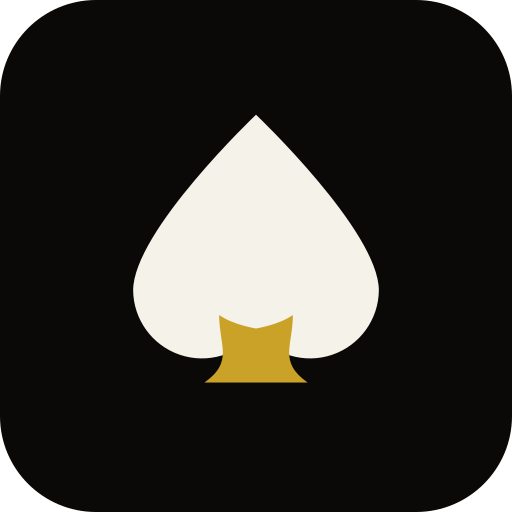
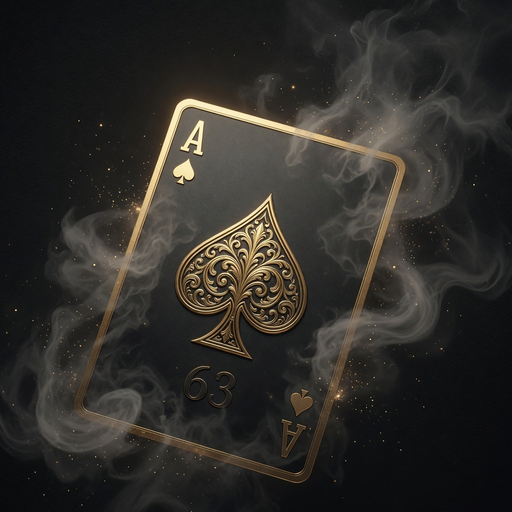
Integrate the real Royal63 brand image
Replace the generated placeholder icons/OG image with crops of the
club's actual logo (gold ace of spades card): app icons (192/512,
apple-touch-icon), a static 1200x630 OG/Twitter share image, and a
featured image on the About page next to the intro copy. Source image
kept at public/brand/royal63-source.jpg for future re-cropping.

Navbar/favicon keep the small vector mark — the photographic card
doesn't read at that size.

Claude-Session: https://claude.ai/code/session_01D4ah8yGr3pBJFTj4aNJb7c

diff --git a/app/(site)/about/page.tsx b/app/(site)/about/page.tsx
@@ -1,4 +1,5 @@
 import type { Metadata } from "next";
+import Image from "next/image";
 import { Reveal, RevealGroup, RevealItem } from "@/components/reveal";
 import { Badge } from "@/components/ui/badge";
 import { SITE_CONTENT } from "@/lib/content";
@@ -55,14 +56,28 @@ export default function AboutPage() {
         <Badge variant="accent">Закрытый клуб</Badge>
       </Reveal>
 
-      <Reveal delay={0.05}>
-        <h1 className="font-display text-[clamp(2rem,6vw,3.5rem)] font-medium tracking-tight">
-          {SITE_CONTENT.clubName}
-        </h1>
-        <p className="mt-6 max-w-xl text-lg leading-relaxed text-[var(--muted-foreground)]">
-          {SITE_CONTENT.about.story}
-        </p>
-      </Reveal>
+      <div className="grid gap-10 sm:grid-cols-[1.1fr_0.9fr] sm:items-center">
+        <Reveal delay={0.05}>
+          <h1 className="font-display text-[clamp(2rem,6vw,3.5rem)] font-medium tracking-tight">
+            {SITE_CONTENT.clubName}
+          </h1>
+          <p className="mt-6 max-w-xl text-lg leading-relaxed text-[var(--muted-foreground)]">
+            {SITE_CONTENT.about.story}
+          </p>
+        </Reveal>
+        <Reveal delay={0.15} className="mx-auto w-full max-w-xs sm:max-w-none">
+          <div className="overflow-hidden rounded-2xl border border-[var(--border)] shadow-[0_30px_60px_-20px_rgba(0,0,0,0.7)]">
+            <Image
+              src="/brand/royal63-card-full.jpg"
+              alt={`${SITE_CONTENT.clubName} — туз пик`}
+              width={1248}
+              height={1248}
+              className="h-auto w-full"
+              priority
+            />
+          </div>
+        </Reveal>
+      </div>
 
       <section className="mt-20">
         <Reveal>
